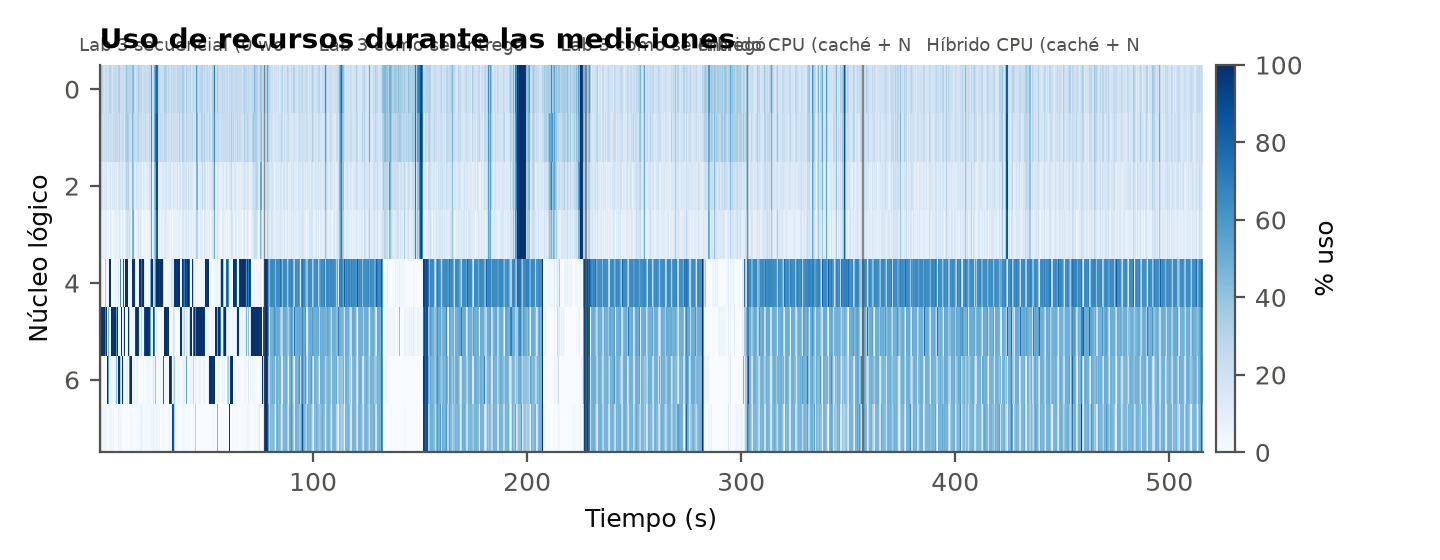
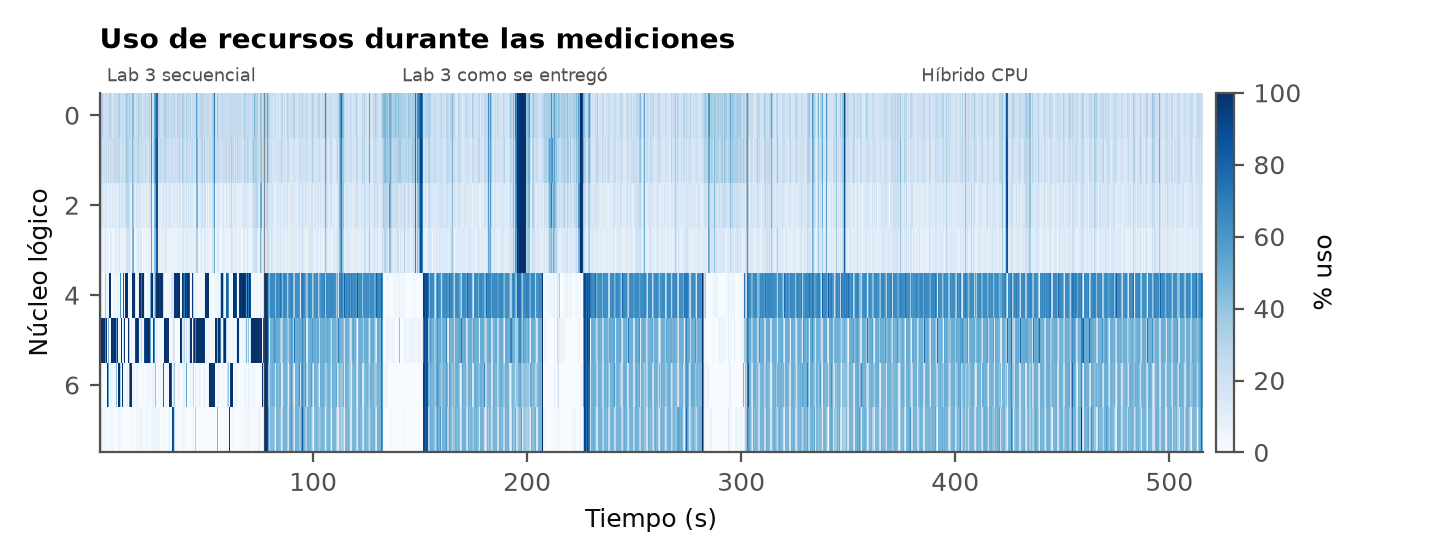
data: limpieza de logs y capturas de hansel-apple-m3 y resumen por fase

diff --git a/results/hansel-apple-m3/tablas/fases.md b/results/hansel-apple-m3/tablas/fases.md
@@ -1,0 +1,7 @@
+| Fase | Secuencial (ms/img) | Mejor variante CPU | CPU (ms/img) | Speedup CPU | GPU (ms/img) | Speedup GPU |
+|---|---:|---|---:|---:|---:|---:|
+| Decodificación (fase 1) | 0.244 | procesos=4 | 0.123 | 1.983 |  |  |
+| Transformación de entrada | 1.458 | Numba CPU 8 hilos | 0.381 | 3.828 |  |  |
+| Paso de entrenamiento | 22.8 | CPU 8 hilos | 66.8 | 0.341 |  |  |
+| Inferencia por lotes | 17.2 | CPU 8 hilos lote 64 | 17.5 | 0.983 |  |  |
+| Época completa | 22.0 | Híbrido CPU (caché + Numba CPU, 8 hilos) | 45.7 | 0.481 |  |  |
